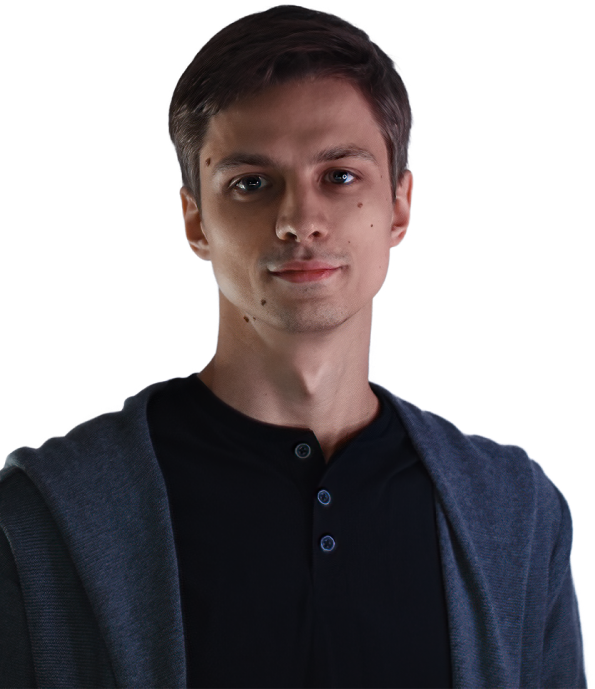
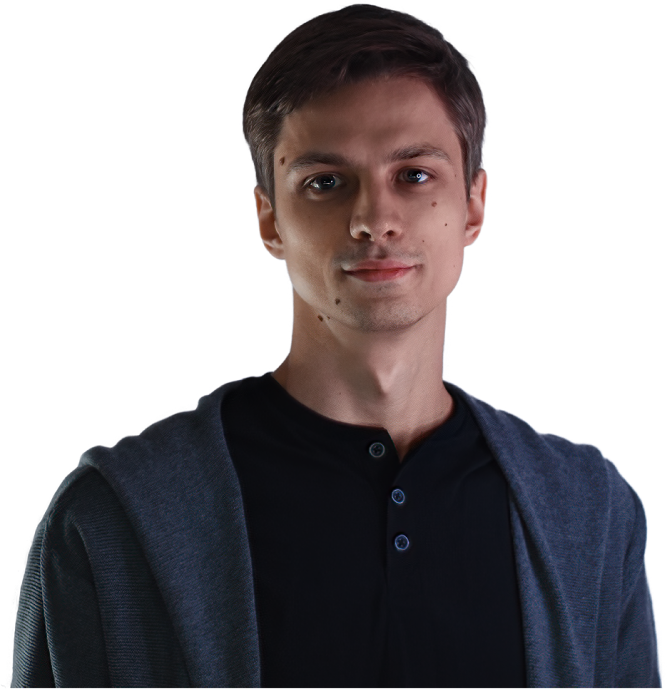
Поправили адаптив в блоках intro, author

Changed region(s): [[0.0, 0.0, 0.9983, 1.0], [0.5445, 0.762, 0.605, 0.8229], [0.5143, 0.701, 0.605, 0.7315]]

diff --git a/css/style.css b/css/style.css
@@ -277,7 +277,7 @@ body {
 .intro-popular::after {
   content: "";
   position: absolute;
-  bottom: 120px;
+  bottom: 126px;
   right: -110px;
   display: block;
   width: 260px;
@@ -331,26 +331,38 @@ body {
   background: url(../img/author-light-2.png) no-repeat;
 }
 
-.author__container {}
+.author__container {
+  position: relative;
+}
+
+.author__container::before {
+  content: "";
+  position: absolute;
+  top: -58px;
+  left: -70px;
+  display: block;
+  width: 150px;
+  height: 105px;
+  background: url(../img/mira.svg) no-repeat;
+}
+
+@media screen and (max-width: 1360px) {
+
+  .author__container::before {
+    display: none;
+  }
+
+}
 
 .author-block {
   position: relative;
   background: radial-gradient(circle at top left, #17202F, #404952);
   border-radius: 30px;
   padding: 57px 0 0;
+  overflow: hidden;
   z-index: 2;
 }
 
-.author-block::before {
-  content: "";
-  position: absolute;
-  top: -57px;
-  left: -85px;
-  display: block;
-  width: 150px;
-  height: 105px;
-  background: url(../img/mira.svg) no-repeat;
-}
 
 
 
@@ -362,19 +374,19 @@ body {
 
 .author__row {
   display: flex;
-  flex-wrap: wrap;
 }
 
-.author-info {}
+.author-info__photo {
+  margin-left: -77px;
+}
 
 .author-info__photo img {
   display: block;
-  border-radius: 0 0 0 30px;
 }
 
 .author-info__achievements {
   flex: 0 1 540px;
-  padding: 45px 15px 30px 3px;
+  padding: 45px 15px 30px 10px;
 }
 
 .author-info__achievement-title {
@@ -428,7 +440,7 @@ body {
   content: "";
   display: block;
   width: 100%;
-  top: 40px;
+  top: 37px;
   left: 0;
   border: 1px solid rgba(255, 255, 255, 0.2);
 }
@@ -436,15 +448,14 @@ body {
 .author-social__item {
   display: flex;
   align-items: center;
-
 }
 
 .author-social__item_1 {
-  margin-bottom: 21px;
+  margin-bottom: 16px;
 }
 
 .author-social__item_2 {
-  margin-bottom: 10px;
+  margin-bottom: 8px;
 }
 
 .author-social__text {
@@ -693,8 +704,25 @@ input:checked~.tab-content {
     right: 20px;
   }
 
-  .author__row {
-    flex-direction: column-reverse;
+  .author {
+    text-align: center;
+  }
+
+  .author-info__achievements {
+    flex: 0 1 460px;
+    padding: 15px 15px 0;
+  }
+
+  .author-info__achievement-title {
+    font-size: 49px;
+  }
+
+  .author-info__achievement-text {
+    margin: 0 auto 30px;
+  }
+
+  .author-info__achievement-text {
+    max-width: 700px;
   }
 
   .author-block::before {
@@ -705,12 +733,19 @@ input:checked~.tab-content {
     flex-direction: column-reverse;
   }
 
-  .author-info__achievements {
-    padding: 57px 15px 0;
-  }
+
 
   .author-awards {
-    justify-content: flex-start;
+    justify-content: center;
+  }
+
+  .author-social {
+    margin: 0 auto;
+  }
+
+  .author-info__photo {
+    margin: 0 auto;
+    ;
   }
 
   #toTop {
@@ -869,14 +904,16 @@ input:checked~.tab-content {
     margin-right: 20px;
   }
 
-  .author-info__achievement-title {
-    font-size: 49px;
-  }
+
 }
 
 @media only screen and (max-width: 880px) {}
 
 @media only screen and (max-width: 768px) {
+
+  .title {
+    font-size: 28px;
+  }
 
   .intro {
     padding-top: 10px;
@@ -903,6 +940,10 @@ input:checked~.tab-content {
 }
 
 @media only screen and (max-width: 580px) {
+
+  .intro {
+    padding-bottom: 40px;
+  }
 
 
   .intro__info {
@@ -934,10 +975,7 @@ input:checked~.tab-content {
     padding: 30px;
   }
 
-  .title {
-    font-size: 30px;
-    line-height: 130%;
-  }
+
 
   .author-info__achievement-title {
     font-size: 42px;
@@ -945,7 +983,7 @@ input:checked~.tab-content {
 
   .author-awards {
     flex-direction: column;
-    align-items: flex-start;
+    align-items: center;
   }
 
   .author-awards__text {
@@ -987,6 +1025,7 @@ input:checked~.tab-content {
 
   .intro-course {
     display: block;
+    text-align: center;
   }
 
   .intro-course__title {
@@ -998,8 +1037,14 @@ input:checked~.tab-content {
     margin-bottom: 20px;
   }
 
+  .intro-list {
+    margin-bottom: 20px;
+  }
+
   .intro-popular {
-    padding: 5px;
+    padding: 20px 10px;
+    border-radius: 0;
+
   }
 
   .author-info__photo {

diff --git a/index.html b/index.html
@@ -124,7 +124,6 @@
         </div>
       </div>
     </section>
-
   </div>
 
 
